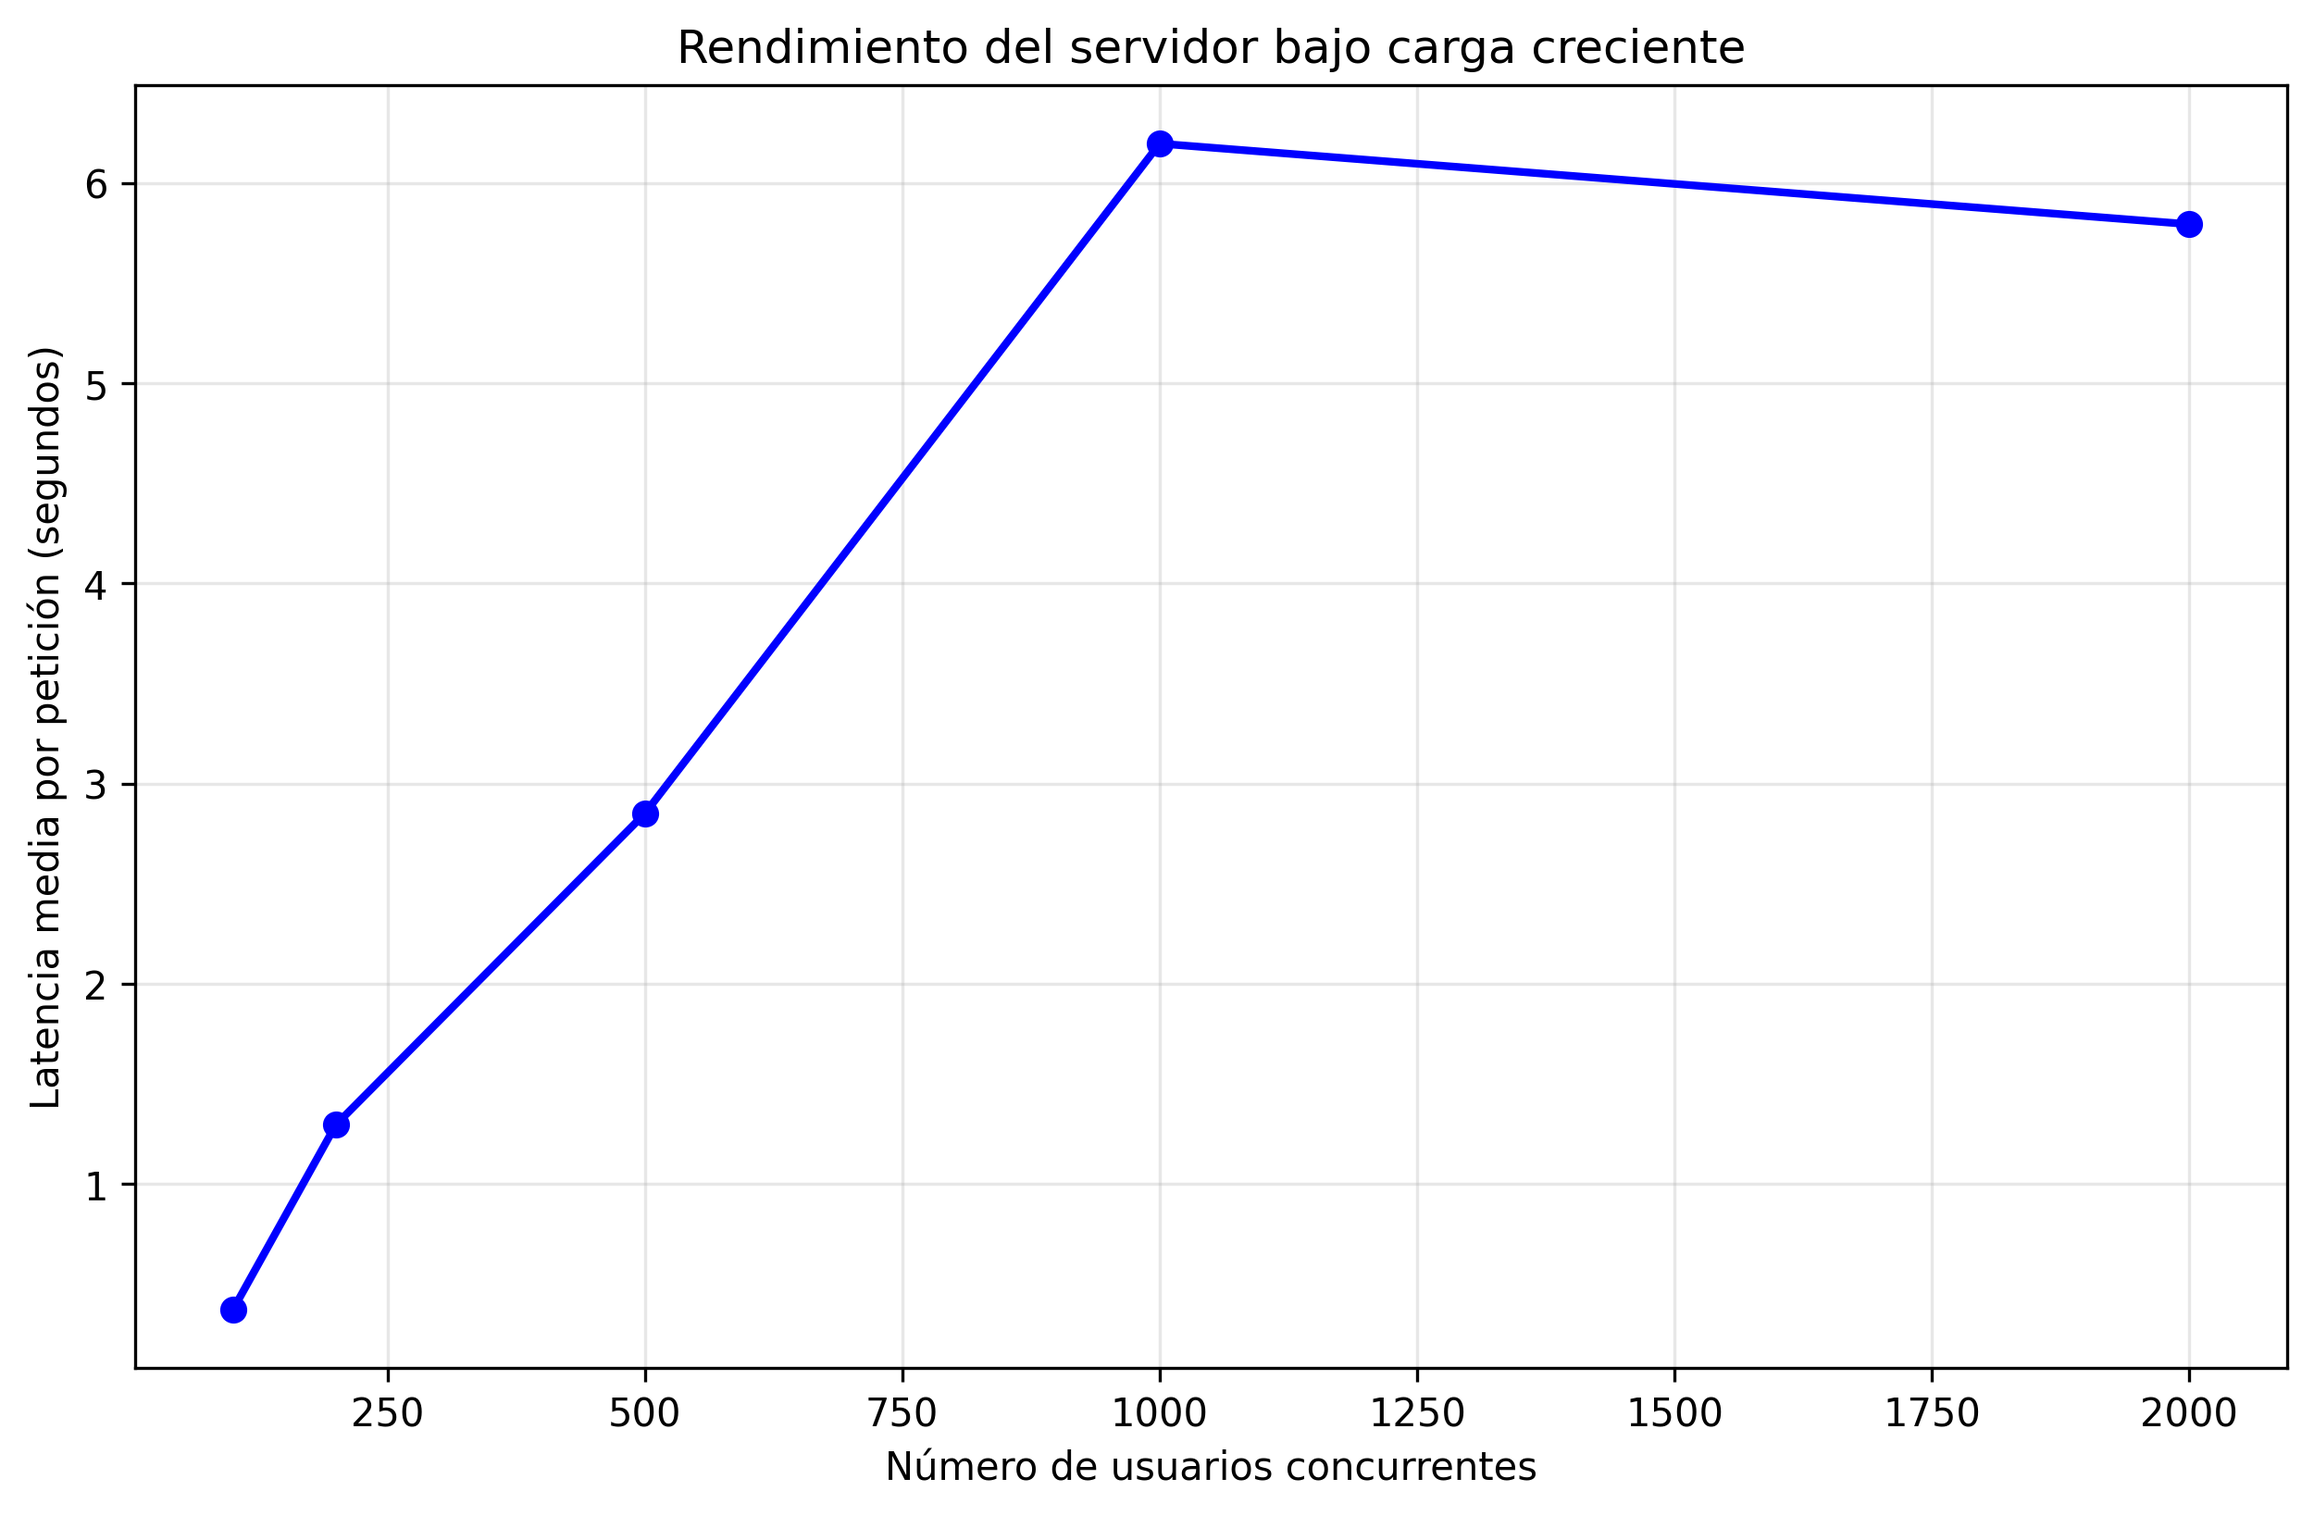
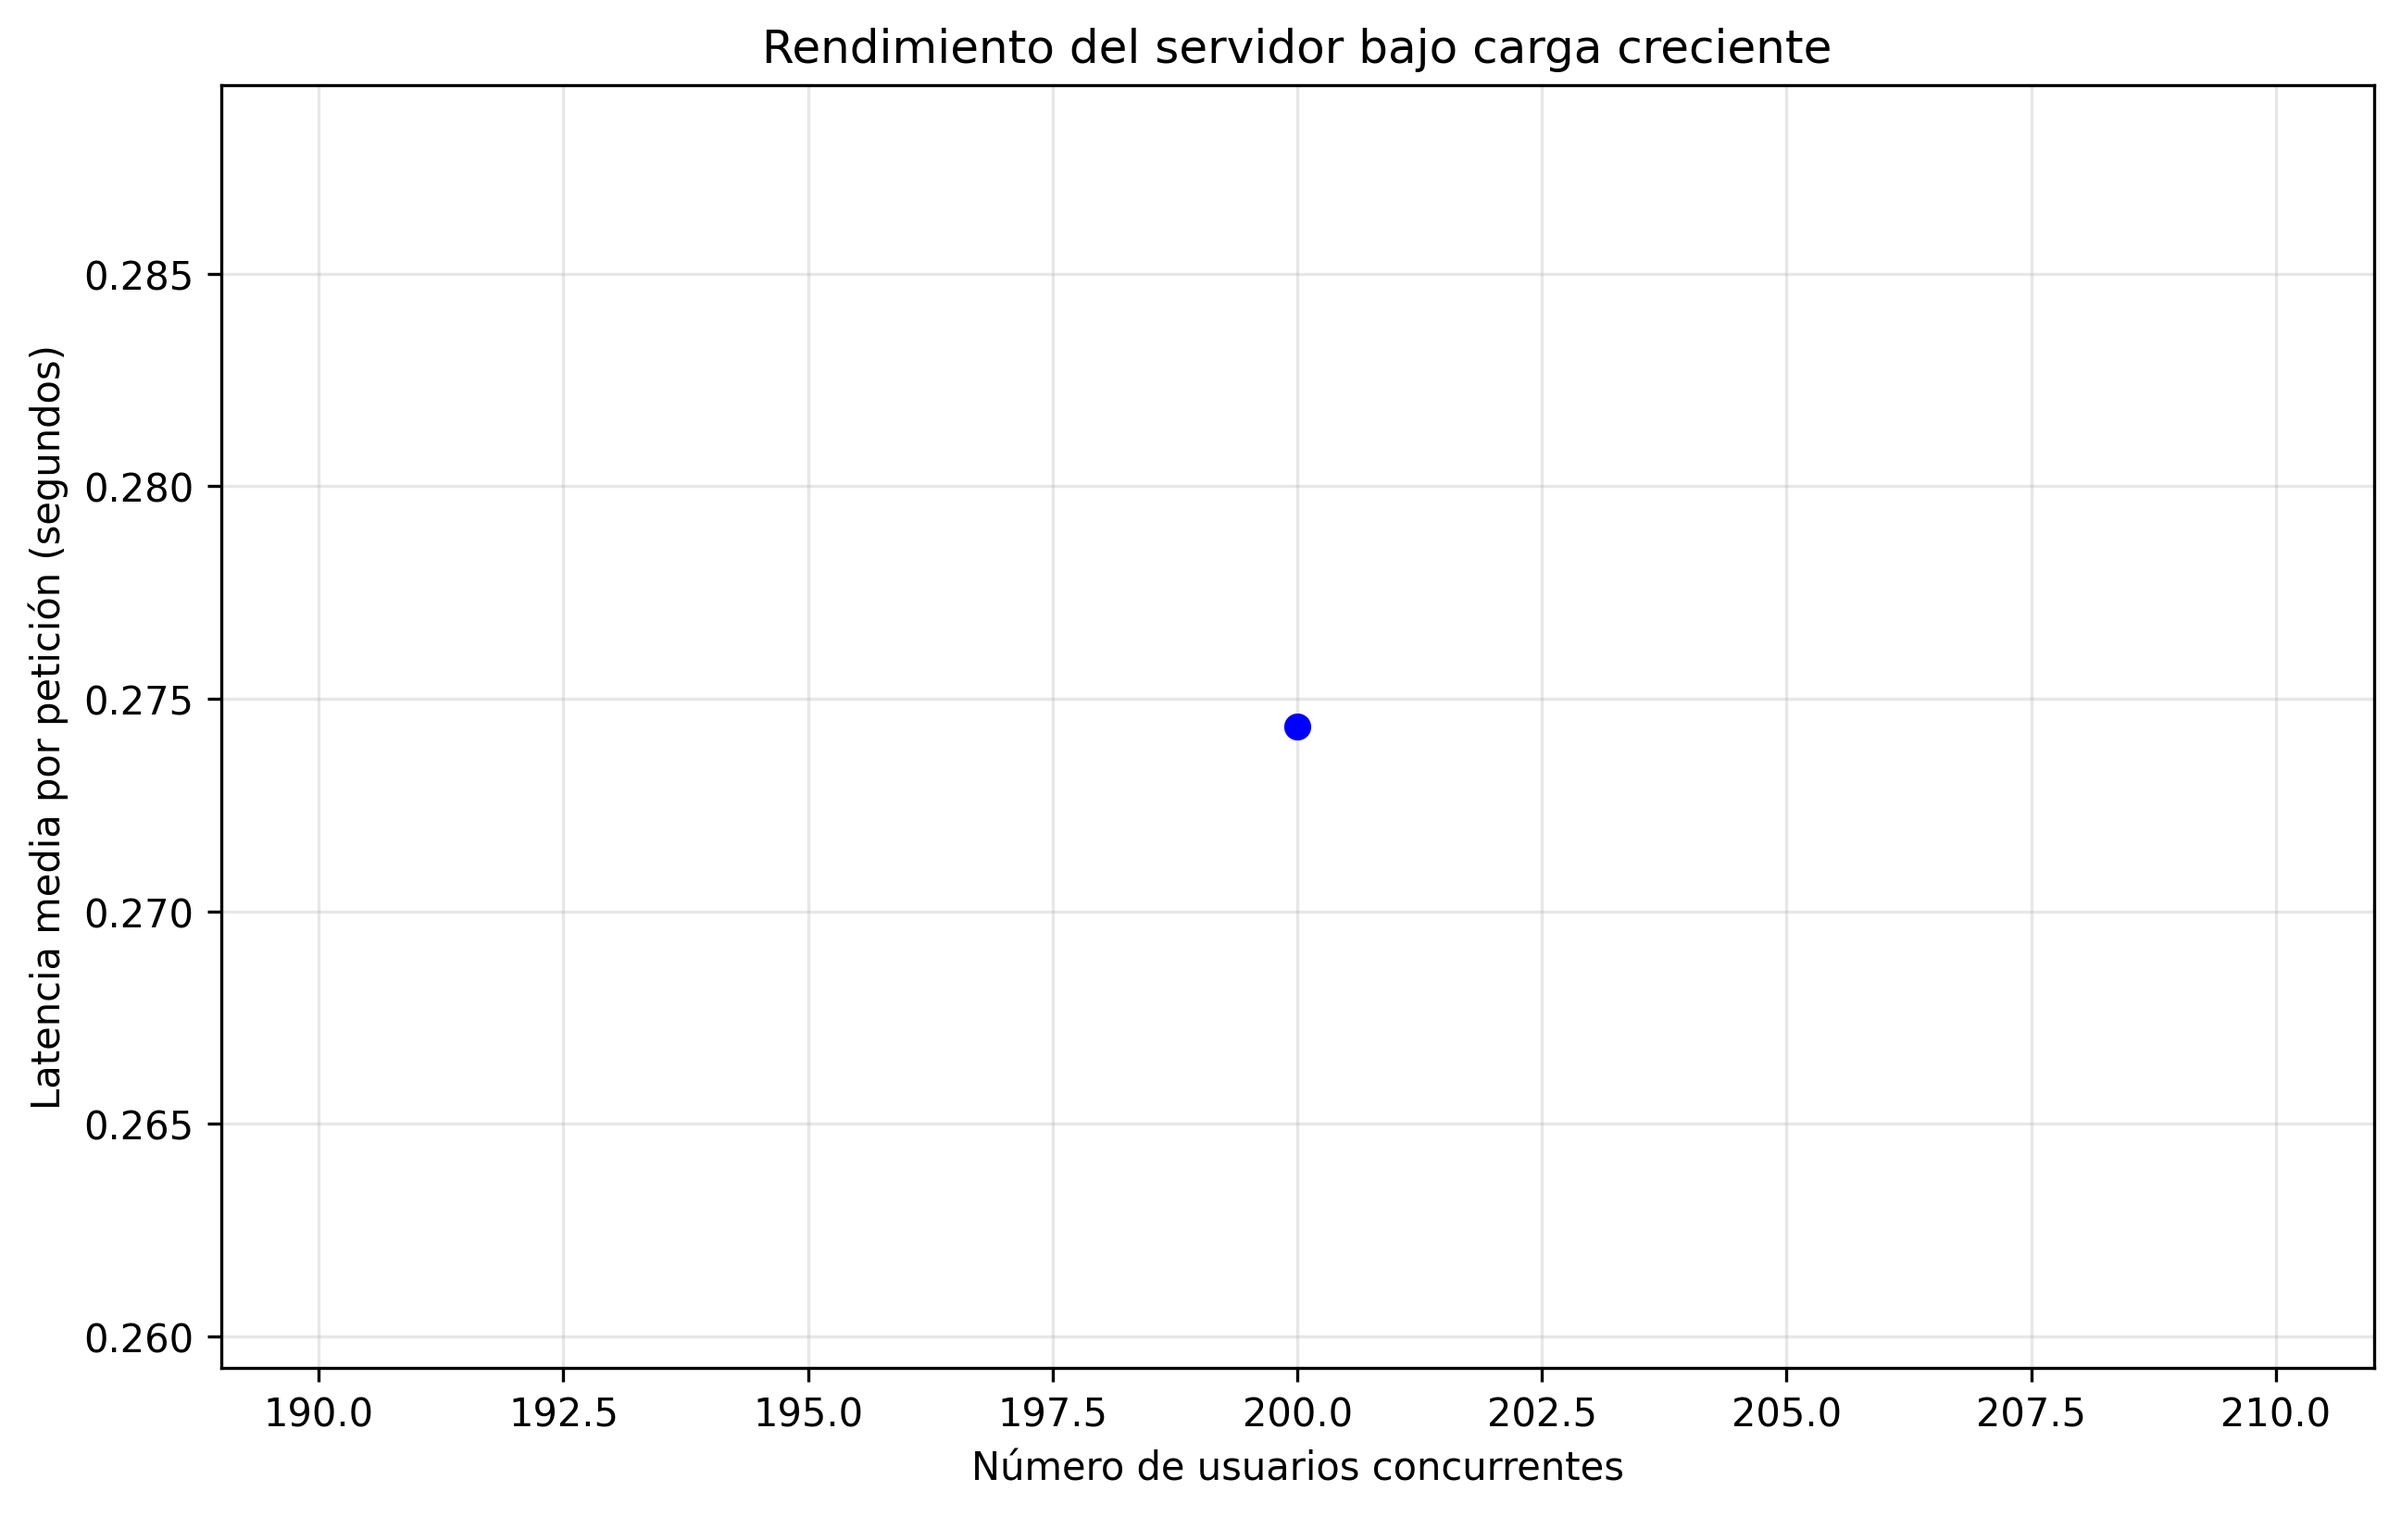
Más arreglos!

diff --git a/webapp/backend/app.py b/webapp/backend/app.py
@@ -54,7 +54,7 @@ app.add_middleware(
     allow_methods=["*"],
     allow_headers=["*"],
 )
-
+"""
 # Archivos estáticos
 BASE_DIR = Path(__file__).resolve().parent.parent
 FRONTEND_DIR = BASE_DIR / "frontend"
@@ -70,6 +70,6 @@ app.mount("/css", StaticFiles(directory=FRONTEND_DIR / "css"), name="css")
 @app.get("/")
 async def root():
     return FileResponse(FRONTEND_DIR / "index.html")
-
+"""
 # ---------------------------------------------------------
 

diff --git a/simulador/main.py b/simulador/main.py
@@ -21,7 +21,7 @@ if __name__ == "__main__":
     estaciones = sim.leer_de_un_json("estaciones.json")
     bicicletas = sim.leer_de_un_json("bicicletas.json")
 
-    usuarios_a_probar = [100, 200, 500, 1000, 2000]
+    usuarios_a_probar = [200]
     resultados = {}
 
     print("Iniciando simulación de carga...\n")

diff --git a/webapp/backend/db/seed_realistic.py b/webapp/backend/db/seed_realistic.py
@@ -232,7 +232,7 @@ def seed_data():
             # --------------------------------------------------------------------------
 
             medidas = []
-            TOTAL = 15000
+            TOTAL = 50000
 
             for _ in range(TOTAL):
                 placa = random.choice(placas)
